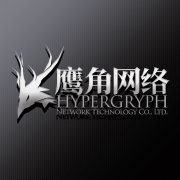
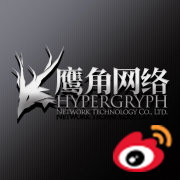
添加鹰角网络微博快速跳转链接

Changed region(s): [[0.6111, 0.6944, 0.9722, 0.9722]]

diff --git a/src/common/Constants.js b/src/common/Constants.js
@@ -125,6 +125,12 @@ const quickJump = {
       img: '/assets/image/tl.jpg',
       radius: true,
     },
+    {
+      url: "https://weibo.com/u/7461423907",
+      name: "鹰角网络微博",
+      img: '/assets/image/yjwb.jpg',
+      radius: true,
+    },
   ],
   tool: [
     {
